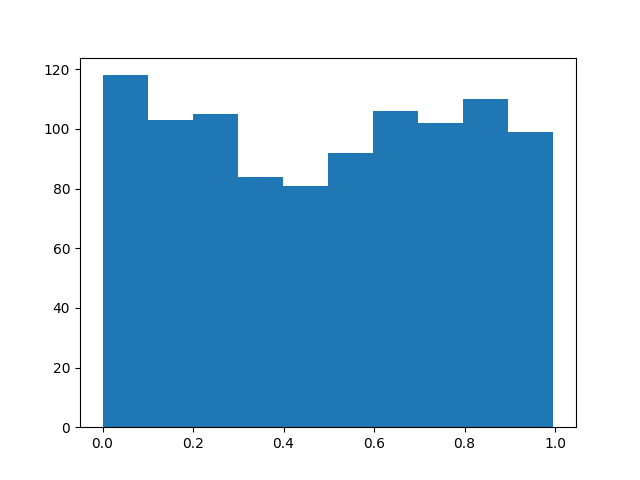
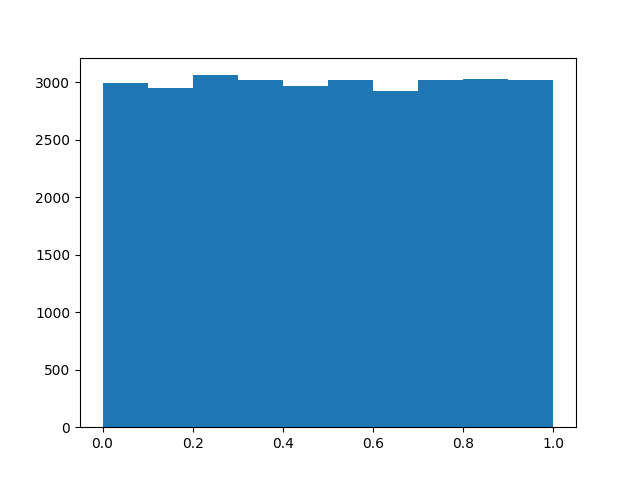
checkpoint13/11

diff --git a/pivot_nonDA.py b/pivot_nonDA.py
@@ -34,9 +34,9 @@ def pvalue_SI(seed, n, p, true_betaT):
     # print(X)
     # print(Y)
     # Best model from 1...p models by AIC criterion
-    # SELECTION_F = FS.SelectionAIC(Y, X, Sigma)
+    SELECTION_F = FS.SelectionAIC(Y, X, Sigma)
     k = 3
-    SELECTION_F = FS.fixedSelection(Y, X, k)[0]
+    # SELECTION_F = FS.fixedSelection(Y, X, k)[0]
     X_M = X[:, sorted(SELECTION_F)].copy()
 
     # Compute eta
@@ -58,8 +58,8 @@ def pvalue_SI(seed, n, p, true_betaT):
     etaTY = np.dot(eta.T, Y).item()
     # print(f"etay: {etaTY}")
     # finalinterval = overconditioning.OC_fixedFS_interval(ns, nt, a, b, XsXt_, Xtilde, Ytilde, Sigmatilde, basis_var, S_, h_, SELECTION_F, GAMMA)[0]
-    # finalinterval = overconditioning.OC_AIC_interval(ns, nt, a, b, XsXt_, Xtilde, Ytilde, Sigmatilde, basis_var, S_, h_, SELECTION_F, GAMMA)
-    finalinterval = parametric.para_FSwithfixedK(n, a, b, X, Sigma, SELECTION_F)
+    finalinterval = overconditioning.OC_FS_AIC_nonDA(n, a, b, X, Y, Sigma, SELECTION_F)
+    # finalinterval = parametric.para_FSwithfixedK(n, a, b, X, Sigma, SELECTION_F)
     # finalinterval = parametric.para_DA_FSwithAIC(ns, nt, a, b, X, Sigma, S_, h_, SELECTION_F,seed)
     # print(f"Final interval: {finalinterval}")
 

diff --git a/overconditioning.py b/overconditioning.py
@@ -149,3 +149,15 @@ def OC_fixedFS_interval(ns, nt, a, b, XsXt_, Xtilde, Ytilde, Sigmatilde, B, S_, 
     # print(itvDA, itvFS)
     finalinterval = intersection.Intersec(itvDA, itvFS) 
     return finalinterval, itvDA, itvFS
+
+
+def OC_FS_AIC_nonDA(n,a,b,X,Y,Sigma,SELECTION_F):
+    lst_SELECk, lst_P = ForwardSelection.list_residualvec(X, Y)
+
+    itvFS = [interval_SFS(X, Y, len(SELECTION_F), lst_SELECk, lst_P, a, b)]
+    itvAIC = interval_AIC(X, Y, lst_P, len(SELECTION_F), a, b, Sigma)
+
+    # finalinterval = intersection.Intersec(itvDA, itvFS) 
+    finalinterval = intersection.Intersec(itvFS, itvAIC)
+    # print(f"fs: {itvFS} | aic: {itvAIC}")
+    return finalinterval

diff --git a/INIT_and_RUN.py b/INIT_and_RUN.py
@@ -8,7 +8,7 @@ def run(iter = 0):
     # print("Seed:",seed)
 
     #___________________________________________________________
-    ns = 100
+    ns = 200
     nt = 10
     p = 5
     betat = 0
@@ -24,8 +24,8 @@ def run(iter = 0):
     OCorPARA_FIXorAIC_FPRorTPR = 'para_AIC_TPR'
     # filename = f'Experiment/Listpvalue_{OCorPARA_FIXorAIC_FPRorTPR}_{ns}_{p}.txt'
     filename = f'Experiment/Listpvalue_{OCorPARA_FIXorAIC_FPRorTPR}_{ns}_{p}_{betat}.txt'
-    with open(filename, 'a') as f:
-        f.write(str(pvalue)+ '\n')
+    # with open(filename, 'a') as f:
+    #     f.write(str(pvalue)+ '\n')
     return pvalue
 
 if __name__ == "__main__":

diff --git a/Parallel_computing.py b/Parallel_computing.py
@@ -5,7 +5,7 @@ import numpy as np
 import matplotlib.pyplot as plt
 import os
 def main(st = 0):
-    max_iteration = 120
+    max_iteration = 30000
     list_p_value = []
     # ssize = 50
     alpha = 0.05
